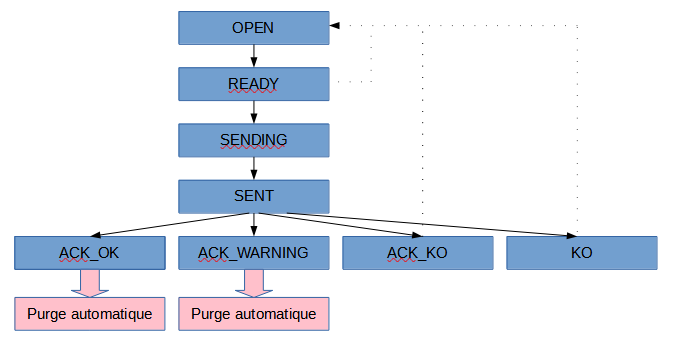
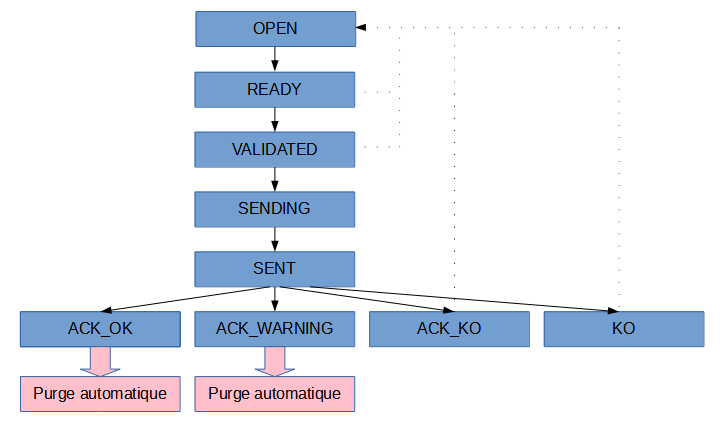
US14751
exporter un SIP

Changed region(s): [[0.0, 0.0, 0.9956, 0.951]]

diff --git a/source/sections/module_de_collecte.md b/source/sections/module_de_collecte.md
@@ -83,7 +83,7 @@ Il permet de :
 |:-: |--- |
 | **Configurer des versements**     | Définir un projet de versement et paramétrer :<br>- acteurs et références génériques,<br>- un rattachement automatisé à une position dans l’arborescence, avec ou sans paramétrages de conditions de rattachement,<br>- une clôture automatique après validation du versement,<br>- le formatage des données entrantes.| 
 | **(Pré-)Verser les archives**     | Collecter depuis l’extérieur un ensemble d’archives, caractérisées par des métadonnées et des fichiers numériques, et constituer :<br>- des (pré-)versements (ou transactions) automatisés émanant d’un système d’information externe <br>- des (pré-)versements (ou transactions) manuels et unitaires : <br>a) constitués par exemple d’arborescences bureautiques ou de messageries,<br>b) réalisés depuis des interfaces, notamment celles de l’APP « Collecte et préparation des versements » du front-office VitamUI.|
-| **Consulter les (pré-)versement** | Consulter :<br>- la liste des projets de versement et des (pré-)versements (ou transactions) en attente,<br>- un projet de versement en particulier, c’est-à-dire sa description, les informations contextuelles et la position de rattachement dans le tenant de destination,<br>- le contenu d’un (pré-)versement (ou transaction), c’est-à-dire la liste des archives associées, une unité archivistique en particulier et, le cas échéant, l’objet numérique associé.|
+| **Consulter les (pré-)versement** | Consulter :<br>- la liste des projets de versement et des (pré-)versements (ou transactions) en attente,<br>- un projet de versement en particulier, c’est-à-dire sa description, les informations contextuelles et la position de rattachement dans le tenant de destination,<br>- le contenu d’un (pré-)versement (ou transaction), c’est-à-dire la liste des archives associées, une unité archivistique en particulier et, le cas échéant, l’objet numérique associé.<br>Exporter le (pré-)versement (ou transaction) sous la forme d'un SIP.|
 | **Traiter les archives**          | Procéder à des traitements archivistiques tels que :<br>- définition de métadonnées contextuelles,<br>- identification de format,<br>- calcul d’empreintes,<br>- calcul du poids de l’objet numérique,<br>- réorganisation d’arborescence,<br>- ajout de dossiers et d'objets numériques,<br>- mise à jour de métadonnées descriptives et de gestion,<br>- suppression d'arborescences et/ou d'objets numériques,<br>- tri, dédoublonnage *(services non implémentés),*<br>- gestion de statuts (ex. réouverture d’un (pré-)versement en erreur),<br>- suppression de projets et de (pré-)versements,<br>- etc.|
 | **Transférer les archives**       | - Générer un SIP conforme au Standard d’échanges de données pour l’archivage (SEDA) et le transférer dans le système d’archivage électronique pour conservation.<br>- Suppression  automatisée d’un (pré-)versement |
 
@@ -1879,6 +1879,7 @@ Au terme de la V8.1, il est possible de réaliser les actions suivantes :
 -   abandon d'une transaction et de son contenu,
 -   réouverture d'une transaction (ou versement),
 -   clôture et validation de la transaction (ou versement),
+-   téléchargement du SIP correspondant au contenu de la transaction,
 -   transfert de la transaction (ou versement) depuis le module de collecte vers le back-office de la solution logicielle Vitam sous la forme d’un SIP conforme au SEDA 2.2.,
 -   si le transfert est en succès ou en avertissement, suppression automatique des archives qui sont associées à la transaction.
 
@@ -2032,7 +2033,7 @@ Cette action provoque :
 
 ***Point d’attention :***
 
--   Une transaction peut être abandonnée uniquement lorsque son statut est égal à « OPEN », « READY », « ACK_KO », « KO ».
+-   Une transaction peut être abandonnée uniquement lorsque son statut est égal à « OPEN », « READY », « VALIDATED », « ACK_KO », « KO ».
 
     Si elle a un statut égal à « SENDING », « SENT », « ACK_OK », « ACK_WARNING », elle ne peut pas l’être[^58].
 
@@ -2094,7 +2095,7 @@ Dès lors, il est à nouveau possible de :
 -   modifier, réorganiser et supprimer des unités archivistiques.
 
 ***Point d’attention :***
--   Une transaction peut être rouverte uniquement lorsque son statut est égal à « READY », « ACK_KO », « KO ».
+-   Une transaction peut être rouverte uniquement lorsque son statut est égal à « READY », « VALIDATED », « ACK_KO », « KO ».
 -   Si elle a un statut égal à « OPEN », « SENDING », « SENT », « ACK_OK », « ACK_WARNING », « ABORTED », elle ne peut pas l’être.
 
 Lors de cette action, l’opération peut aboutir aux résultats suivants :
@@ -2147,7 +2148,7 @@ La solution logicielle permet de clôturer une transaction[^58], une fois l’en
 ```  
 
 Cette action provoque la modification de l’enregistrement dans la base de données MongoDB, dans la collection « Transaction » (base *Collect*) : 
--   la valeur du champ « Status » est désormais « READY » ;
+-   la valeur du champ « Status » est « READY », puis « VALIDATED » ;
 -   si le paramètre « AutomaticIngest » présent dans le projet de versement associé à la transaction a une valeur « true », la valeur du champ « Status » est désormais « SENDING » et/ou « SENT », car la transaction est directement clôturée et envoyée dans la solution logicielle Vitam.
 
  *Exemple : enregistrement de la transaction dans la collection « Transaction »*
@@ -2172,10 +2173,12 @@ Cette action provoque la modification de l’enregistrement dans la base de donn
   }
 ```  
 
-Dès lors, si la transaction a un statut « READY », il n’est plus possible de :
+Dès lors, si la transaction a un statut « READY » et/ou « VALIDATED », il n’est plus possible de :
 
 - associer à cette transaction des unités archivistiques, ainsi que des groupes d’objets techniques et des objets numériques ;
 - modifier, réorganiser et supprimer des unités archivistiques.
+
+En revanche, dès qu'elle a un statut « VALIDATED », il est possible de télécharger le SIP correspondant à son contenu.
 
 ***Point d’attention :***
 -   Une transaction peut être validée uniquement lorsque son statut est égal à « OPEN ».
@@ -2189,7 +2192,7 @@ Lors de cette action, l’opération peut aboutir aux résultats suivants :
 | Échec  | - La transaction associée n’existe pas ;<br>- La transaction associée a déjà été clôturée.|
 
 ***Point d’attention :***
-S’il s’avère nécessaire de modifier le contenu d'une transaction ayant un statut « READY », il est toujours possible à ce stade la rouvrir[^21].
+S’il s’avère nécessaire de modifier le contenu d'une transaction ayant un statut « READY » et/ou « VALIDATED », il est toujours possible à ce stade la rouvrir[^21].
 
 ##### Utilisation dans VitamUI
 
@@ -2208,7 +2211,7 @@ Ce service est disponible :
 ***Point d'attention :*** Le bouton est :
 
 -   actif quand la transaction a un statut « Ouvert en édition » (« OPEN »),
--   inactif quand la transaction a un statut « Préparation et envoi du SIP » (« SENDING »), « Envoyé, en cours de traitement du SAE » (« SENT »), « Versé avec succès » (« ACK_OK »), « Versé en avertissement » (« ACK_WARNING »), « Echec du versement » (« ACK_KO »), « Erreur technique » (« KO »), « Abandonné » (« ABORTED »).
+-   inactif quand la transaction a un statut « Validation en cours » (« READY »), « Validé » (« VALIDATED »), « Préparation et envoi du SIP » (« SENDING »), « Envoyé, en cours de traitement du SAE » (« SENT »), « Versé avec succès » (« ACK_OK »), « Versé en avertissement » (« ACK_WARNING »), « Echec du versement » (« ACK_KO »), « Erreur technique » (« KO »), « Abandonné » (« ABORTED »).
 
 Des droits utilisateurs sont par ailleurs définis :
 
@@ -2218,6 +2221,61 @@ Des droits utilisateurs sont par ailleurs définis :
 | Archiviste         | oui |
 | Service producteur | oui |
 
+### Téléchargement d'un SIP
+
+##### Utilisation des API
+
+La solution logicielle permet de télécharger le SIP correspondant à une transaction, une fois l’ensemble des archives liées à cette transaction envoyées dans cette dernière et ne nécessitant plus de traitements.
+
+-   Le SIP est mis à disposition dès que la transaction est clôturée et a un statut égal à « VALIDATED ».
+-   Si la transaction est réouverte après validation, alors le SIP, mis à disposition sur les offres, est purgé.
+
+***Points d’attention :***
+
+-   Il faut avoir au préalable créé une transaction et la signaler dans l’API.
+-   Le SIP est uniquement disponible lorsque la transaction a été clôturée et que son statut est égal à « VALIDATED », « SENDING », « SENT », « ACK_KO ».
+    Si la transaction a un statut égal à « OPEN », « ACK_OK », « ACK_WARNING », « ABORTED », « KO », le SIP n'est pas disponible.
+
+ *Exemple : requête de téléchargement*
+```  
+  @transaction-id = aeeaaaaaaghiyso4ablmyal74slqwtqaaaaq
+  @tenant = 1
+  
+  GET  {{url-collect}}/collect-external/v1/transactions/{{transaction-id}}/downloadSIP
+  Accept: application/octet-stream
+  X-Tenant-Id: {{tenant}}
+  
+  {}
+```  
+
+Lors de cette action, l’opération peut aboutir aux résultats suivants :
+
+| Statut | Motifs |
+|---|---|
+| Succès | Action réalisée sans rencontrer de problèmes particuliers. |
+| Échec  | - La transaction associée n’existe pas ;<br>- La transaction associée est ouverte ou a été réouverte ;<br>- La transaction associée a été envoyée avec succès ou avec un avertissement dans la solution logicielle Vitam ;<br>- La transaction est en erreur technique ;<br>- La transaction a été abandonnée.|
+
+##### Utilisation dans VitamUI
+
+L’APP « Collecte et préparation des versements » du front-office VitamUI fournie avec la solution logicielle Vitam utilise l'API de téléchargement d'un SIP.
+
+Ce service est disponible depuis la page permettant de visualiser l’ensemble des transactions (ou versements) associées à un projet de versement, où il est possible de :
+
+    -   « Télécharger » un SIP.
+
+***Point d'attention :*** Le bouton est :
+
+-   actif quand la transaction a un statut « Ouvert en édition » (« OPEN »),
+-   inactif quand la transaction a un statut « Validation en cours » (« READY »), « Validé » (« VALIDATED »), « Préparation et envoi du SIP » (« SENDING »), « Envoyé, en cours de traitement du SAE » (« SENT »), « Versé avec succès » (« ACK_OK »), « Versé en avertissement » (« ACK_WARNING »), « Echec du versement » (« ACK_KO »), « Erreur technique » (« KO »), « Abandonné » (« ABORTED »).
+
+Des droits utilisateurs sont par ailleurs définis :
+
+| Profil utilisateur | Validation d'une transaction |
+|---|---|
+| Administrateur     | oui |
+| Archiviste         | oui |
+| Service producteur | non |
+
 #### Envoi d'une transaction
 
 ##### Utilisation des API
@@ -2225,7 +2283,7 @@ Des droits utilisateurs sont par ailleurs définis :
 Pour une transaction donnée, une fois celle-ci clôturée, le module de collecte permet de générer un SIP en SEDA 2.3 et de le transférer au moyen d’une opération de type « INGEST »[^58].
 
 ***Point d’attention :***
--  En prérequis à l’envoi du SIP, il faut avoir au préalable clôturé la transaction (son statut doit être égal à « READY ») et signaler cette dernière dans l’API.
+-  En prérequis à l’envoi du SIP, il faut avoir au préalable clôturé la transaction (son statut doit être égal à « VALIDATED ») et signaler cette dernière dans l’API.
 -  Cette action peut être automatisée si le paramètre « AutomaticIngest » présent dans le projet de versement associé à la transaction a une valeur « true ». Dès lors, dès validation de la transaction, la transaction est directement clôturée et envoyée dans la solution logicielle Vitam.
 
  *Exemple : requête d’envoi du SIP vers la solution logicielle Vitam pour conservation*
@@ -2286,8 +2344,8 @@ Ce service est disponible :
 
 ***Point d'attention :*** Le bouton est :
 
--   actif quand la transaction a un statut « Validé » (« READY »),
--   inactif quand la transaction a un statut « Ouvert en édition » (« OPEN »), « Préparation et envoi du SIP » (« SENDING »), « Envoyé, en cours de traitement du SAE » (« SENT »), « Versé avec succès » (« ACK_OK »), « Versé en avertissement » (« ACK_WARNING »), « Echec du versement » (« ACK_KO »), « Erreur technique » (« KO »), « Abandonné » (« ABORTED »).
+-   actif quand la transaction a un statut « Validé » (« VALIDATED »),
+-   inactif quand la transaction a un statut « Ouvert en édition » (« OPEN »), « Validation en cours » (« READY »), « Préparation et envoi du SIP » (« SENDING »), « Envoyé, en cours de traitement du SAE » (« SENT »), « Versé avec succès » (« ACK_OK »), « Versé en avertissement » (« ACK_WARNING »), « Echec du versement » (« ACK_KO »), « Erreur technique » (« KO »), « Abandonné » (« ABORTED »).
 
 Cette action entraîne la purge des archives passé un certain délai, si le résultat est un versement en succès ou en avertissement.
 
@@ -2492,7 +2550,7 @@ Lors de cette action, l’opération peut aboutir aux résultats suivants :
 |---|---|
 | Succès       |  Action réalisée sans rencontrer de problèmes particuliers. |
 | Avertissement|  Le formatage du fichier .csv contient au moins une erreur (ex. date mal formatée, valeur attendue erronée, date de début postérieure à la date de fin, etc.)|
-| Échec        |  - Le fichier .csv n’est pas au format .csv. <br>- Le fichier .csv contient des erreurs dans la colonne File. <br>- Action non réalisée pour cause de nom erroné ou de chemin introuvable dans la requête.<br>- La transaction n’existe pas ou est erronée.<br>- La transaction a un statut « READY », « SENDING », « SEND », « ACK_OK », « ACK_WARNING », « ACK_KO », « KO », « ABORTED ».|
+| Échec        |  - Le fichier .csv n’est pas au format .csv. <br>- Le fichier .csv contient des erreurs dans la colonne File. <br>- Action non réalisée pour cause de nom erroné ou de chemin introuvable dans la requête.<br>- La transaction n’existe pas ou est erronée.<br>- La transaction a un statut « READY », « VALIDATED », « SENDING », « SEND », « ACK_OK », « ACK_WARNING », « ACK_KO », « KO », « ABORTED ».|
 
 Elle n’est pas journalisée dans le journal des opérations.
 
@@ -2528,7 +2586,7 @@ Ce service est disponible depuis la page permettant de visualiser l’ensemble 
 ***Point d'attention***: Le bouton est :
 
 -   actif quand la transaction a un statut « Ouvert en édition » (« OPEN »),
--   inactif quand la transaction a un statut « Validé » (« READY »), « Préparation et envoi du SIP » (« SENDING »), « Envoyé, en cours de traitement du SAE » (« SENT »), « Versé avec succès » (« ACK_OK »), « Versé en avertissement » (« ACK_WARNING »), « Echec du versement » (« ACK_KO »), « Erreur technique » (« KO »), « Abandonné » (« ABORTED »).
+-   inactif quand la transaction a un statut « Validation en cours » (« READY »), « Validé » (« VALIDATED »), « Préparation et envoi du SIP » (« SENDING »), « Envoyé, en cours de traitement du SAE » (« SENT »), « Versé avec succès » (« ACK_OK »), « Versé en avertissement » (« ACK_WARNING »), « Echec du versement » (« ACK_KO »), « Erreur technique » (« KO »), « Abandonné » (« ABORTED »).
 
 Des droits utilisateurs sont par ailleurs définis :
 
@@ -2618,7 +2676,7 @@ Lors de cette action, l’opération peut aboutir aux résultats suivants :
 |---|---|
 | Succès       |  Action réalisée sans rencontrer de problèmes particuliers. |
 | Avertissement|  Le formatage du fichier .jsonl contient au moins une erreur (ex. date mal formatée, valeur attendue erronée, date de début postérieure à la date de fin, etc.)|
-| Échec        |  - Le fichier .jsonl n’est pas au format .jsonl.<br>- Le fichier .jsonl contient des erreurs dans la colonne File ou Selector.<br>- Action non réalisée pour cause de nom erroné ou de chemin introuvable dans la requête.<br>- La transaction n’existe pas ou est erronée.<br>La transaction a un statut « READY », « SENDING », « SEND », « ACK_OK », « ACK_WARNING », « ACK_KO », « KO », « ABORTED ».|
+| Échec        |  - Le fichier .jsonl n’est pas au format .jsonl.<br>- Le fichier .jsonl contient des erreurs dans la colonne File ou Selector.<br>- Action non réalisée pour cause de nom erroné ou de chemin introuvable dans la requête.<br>- La transaction n’existe pas ou est erronée.<br>La transaction a un statut « READY », « VALIDATED », « SENDING », « SEND », « ACK_OK », « ACK_WARNING », « ACK_KO », « KO », « ABORTED ».|
 
 Elle n’est pas journalisée dans le journal des opérations.
 
@@ -3125,7 +3183,8 @@ Le module de collecte attribue un certain nombre de statuts à une transaction. 
 | Actions disponibles                   | Statut correspondant<br>dans le front-office | Statut correspondant<br>dans le back-office | Modification possible ? | Abandon possible ? | Purge automatique ? |
 |---|---|---|---|---|---|
 |Créer la transaction| Ouvert en édition            |OPEN           |          OUI       |          OUI ||
-|Clôturer / Valider  | Validé                       |READY          |                    |          OUI ||
+|Clôturer / Valider  | Validation en cours          |READY          |                    |          OUI ||
+|Clôturer / Valider  | Validé                       |VALIDATED      |                    |          OUI ||
 |Verser / Envoyer    | Préparation et envoi du SIP  |SENDING        |                    |              ||
 |Verser / Envoyer    |  Envoyé, en cours de traitement du SAE                                |SENT           |                    |              ||
 |Verser / Envoyer    |  Versé en succès                                                      |ACK_OK         |                    |              |OUI|
@@ -3478,6 +3537,7 @@ Chacun d'eux a la possibilité d'agir sur cette APP à des degrés différents :
 |Verser une transaction| oui | oui | non |
 |Rouvrir une transaction| oui | oui | non |
 |Abandonner une transaction| oui | non | non |
+|Télécharger un SIP| oui | oui | non |
 |Ajouter des archives| oui | oui | oui |
 |Réorganiser des arborescences| oui | oui | non |
 |Supprimer des archives| oui | oui | non |
@@ -3499,7 +3559,7 @@ Voici un tableau récapitulatif des services disponibles, mettant en évidence l
 |---|---|---|
 |Configurer des versements|Crée N projets de versement :<br/>- Pour des versements manuels<br/>- Pour des versements de flux automatisés|Crée N projets de versement :<br/>- Pour des versements manuels<br/>- Pour des versements de flux automatisés|
 |(Pré-)Verser les archives|- Crée automatiquement 1 transaction associée (mode lot, **dont SIP - version 9.0**) pour 1 projet de versement manuel préalablement créé.<br/>- Ne crée pas de transaction associée à un projet de versement automatique.<br/>- **Ajouts a posteriori possibles d’archives (mode lot) - version 8.1**|- Crée N transactions associées avec ses archives (mode lot, **dont SIP - version 9.0 -** ou *unitaire*).<br/>- Ajouts a posteriori possibles d’archives (**mode lot - version 8.1** - ou unitaire)|
-|Consulter les (pré-)versement(s)|- Liste les projets de versement<br/>- Recherche dans les projets de versement<br/>- Affichage du détail d’un projet de versement<br/>- Liste les transactions associées à un projet<br/>- Liste les archives d’une transaction<br/>- Recherche simple / avancée / arborescence dans les archives d’une transaction<br/>- Affichage du détail d’une unité (métadonnées descriptives et de gestion, métadonnées techniques)<br/>- Téléchargement de l’objet numérique<br/>|- Liste les projets de versement<br/>- Recherche dans les projets de versement<br/>- Affichage du détail d’un projet de versement<br/>- Liste les transactions associées à un projet<br/>- *Affichage du détail d’une transaction*<br/>- Liste les archives d’une transaction<br/>- Recherche simple / avancée / arborescence dans les archives d’une transaction<br/>- Affichage du détail d’une unité (métadonnées descriptives et de gestion, métadonnées techniques)<br/>- Téléchargement de l’objet numérique|
+|Consulter les (pré-)versement(s)|- Liste les projets de versement<br/>- Recherche dans les projets de versement<br/>- Affichage du détail d’un projet de versement<br/>- Liste les transactions associées à un projet<br/>- Liste les archives d’une transaction<br/>- Recherche simple / avancée / arborescence dans les archives d’une transaction<br/>- Affichage du détail d’une unité (métadonnées descriptives et de gestion, métadonnées techniques)<br/>- Téléchargement de l’objet numérique<br/>|- Liste les projets de versement<br/>- Recherche dans les projets de versement<br/>- Affichage du détail d’un projet de versement<br/>- Liste les transactions associées à un projet<br/>- *Affichage du détail d’une transaction*<br/>- Liste les archives d’une transaction<br/>- Recherche simple / avancée / arborescence dans les archives d’une transaction<br/>- Affichage du détail d’une unité (métadonnées descriptives et de gestion, métadonnées techniques)<br/>- Téléchargement de l’objet numérique.<br>**Exporter le (pré-)versement (ou transaction) sous la forme d'un SIP - version 9.0**.|
 |Traiter les archives|- définition et mise à jour de métadonnées contextuelles,<br/>- identification de format,<br/>- calcul d’empreintes,<br/>- calcul du poids de l’objet numérique,<br/>- mise à jour de métadonnées descriptives et de gestion (par import de fichier .csv),<br/>- mise à jour unitaire de métadonnées descriptives,<br/>- **suppression d'archives - version 8.1**,<br/>- **réorganisation d'archives - version 8.1**,<br/>- gestion de statuts (ex. réouverture ou abandon d’un (pré-)versement)|- définition et mise à jour de métadonnées contextuelles,<br/>- identification de format,<br/>- calcul d’empreintes,<br/>- calcul du poids de l’objet numérique,<br/>- mise à jour de métadonnées descriptives et de gestion (par import de fichier .csv et *.jsonl*),<br/>- mise à jour unitaire en masse de métadonnées descriptives et de gestion,<br/>- **suppression d'archives - version 8.1**,<br/>- **réorganisation d'archives - version 8.1**,<br/>- gestion de statuts (ex. réouverture ou abandon d’un (pré-)versement),<br/>- *suppression unitaire d’un (pré-versement) et d’un projet de versement*|
 |Transférer les archives|- Générer un SIP<br/>- Suppression automatique|- Générer un SIP<br/>- Suppression automatique|
 |Gestion des droits|- **Trois groupes de profils : administrateur, archiviste, service producteur - version 8.0**,<br/>- **Possibilité de filtrage des accès aux projets par service producteur - version 8.0**.||
@@ -3791,6 +3851,7 @@ Annexe 3 : Liste des points d’API
 |                   | Envoi de la transaction           | transaction:send         | POST          | /collect-external/v1/transactions/{transactionId}/send/ |
 |                   | Abandonner une transaction        | transaction:abort        | PUT           | /collect-external/v1/transactions/{transactionId}/abort/ |
 |                   | Rouvrir une transaction           | transaction:reopen       | PUT           | /collect-external/v1/transactions/{transactionId}/reopen/|
+|                   | Télécharge le SIP d'une transaction | transaction:sip:read     | GET           | /collect-external/v1/transactions/{transactionId}/downloadSIP/|
 |                   | Charge les binaires en lot        | transaction:zip:create   | POST          | /collect-external/v1/transactions/{transactionId}/upload/|
 |                   | Envoyer un SIP à une transaction  | transaction:sip:upload   | POST          | /collect-external/v1/transactions/{transactionId}/uploadSip/|
 |                   | Crée une unité archivistique      | transaction:unit:create  | POST          | /collect-external/v1/transactions/{transactionId}/units/|
